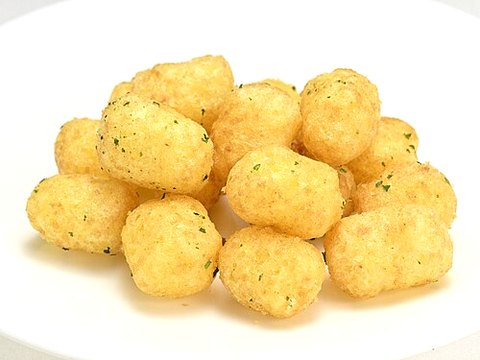
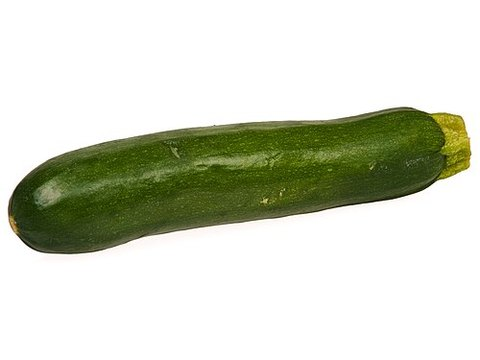
Демо-каталог 54 позиции в 12 группах, снимки на белом фоне
Каталог расширен так, чтобы пагинация была видна на обоих уровнях: 12 групп при
сетке 4x2 дают две страницы, и в двух группах по 10 товаров — тоже две.

Снимки приведены к белому фону: у кандидата замерялись углы кадра, и снимок
принимался только при равномерно светлом фоне; кадр не обрезается, а вписывается
в белое поле, иначе у студийного снимка срезается объект. Одной белизны оказалось
мало — поиск охотно отдавал студийное фото не того предмета, поэтому добавлена
проверка названия и защита от повторного использования одного снимка.

Часть карточек закрыта тематическими дублями: источник отдавал файлы порциями и
уходил в лимит, а для проверки вёрстки точного соответствия не требуется. Дубли
помечены в credits.md, заменить снимок — положить свой под тем же именем.

Карточка товара уплотнена: цена и код встали в одну строку, служебные строки
каталога стали ниже. До этого на экране прибора 1366x768 подпись занимала 86 px
из 160, а фотографии оставалось 69 — теперь 109 из 174.

Правка формулировки поиска в i18n.ts — от владельца репозитория, сохранена как есть.

Claude-Session: https://claude.ai/code/session_012KYWtzPLhGThTgMHXz4chb

diff --git a/frontend/src/kiosk/components/ProductGrid.vue b/frontend/src/kiosk/components/ProductGrid.vue
@@ -32,12 +32,16 @@ defineEmits<{ select: [product: Product] }>()
 
       <div class="body">
         <span class="name">{{ product.name }}</span>
-        <span class="price">
-          {{ formatMoney(product.price) }} {{ currency }}/{{
-            product.unit === 'piece' ? t('kiosk.perPiece') : t('kiosk.perKg')
-          }}
-        </span>
-        <span class="plu">{{ t('kiosk.code') }} {{ product.plu }}</span>
+        <!-- цена и код в одну строку: на экране прибора каждая лишняя строка
+             подписи отнимает высоту у фотографии -->
+        <div class="meta">
+          <span class="price">
+            {{ formatMoney(product.price) }} {{ currency }}/{{
+              product.unit === 'piece' ? t('kiosk.perPiece') : t('kiosk.perKg')
+            }}
+          </span>
+          <span class="plu">{{ t('kiosk.code') }} {{ product.plu }}</span>
+        </div>
       </div>
     </button>
 
@@ -105,26 +109,34 @@ defineEmits<{ select: [product: Product] }>()
 .body {
   display: flex;
   flex-direction: column;
-  gap: 2px;
-  padding: 10px 12px 12px;
+  padding: 8px 10px 10px;
 }
 
 .name {
-  font-size: 17px;
+  font-size: 16px;
   font-weight: 600;
-  line-height: 1.25;
+  line-height: 1.2;
+}
+
+.meta {
+  display: flex;
+  align-items: baseline;
+  justify-content: space-between;
+  gap: 8px;
+  margin-top: 4px;
 }
 
 .price {
-  margin-top: 4px;
-  font-size: 17px;
+  font-size: 16px;
   font-weight: 700;
   color: var(--s2l-accent);
+  white-space: nowrap;
 }
 
 .plu {
-  font-size: 13px;
+  font-size: 12px;
   color: var(--s2l-muted);
+  white-space: nowrap;
 }
 
 .empty {

diff --git a/frontend/src/kiosk/App.vue b/frontend/src/kiosk/App.vue
@@ -577,7 +577,7 @@ watch(locale, () => (document.title = t('title.kiosk')), { immediate: true })
 .catalog-title {
   margin: 0;
   padding: 0 4px;
-  font-size: 26px;
+  font-size: 22px;
   font-weight: 700;
   line-height: 1.2;
 }
@@ -594,8 +594,8 @@ watch(locale, () => (document.title = t('title.kiosk')), { immediate: true })
   align-items: center;
   gap: 14px;
   flex: 1;
-  height: 76px;
-  padding: 0 20px;
+  height: 64px;
+  padding: 0 18px;
   background: var(--s2l-panel);
   border: 3px solid transparent;
   border-radius: 16px;
@@ -641,9 +641,9 @@ watch(locale, () => (document.title = t('title.kiosk')), { immediate: true })
 
 .clear {
   flex: none;
-  width: 52px;
-  height: 52px;
-  font-size: 30px;
+  width: 46px;
+  height: 46px;
+  font-size: 28px;
   line-height: 1;
   color: var(--s2l-muted);
   background: var(--s2l-soft);
@@ -657,8 +657,8 @@ watch(locale, () => (document.title = t('title.kiosk')), { immediate: true })
 }
 
 .toggle {
-  width: 76px;
-  height: 76px;
+  width: 72px;
+  height: 64px;
   font-size: 19px;
   font-weight: 700;
   border: none;

diff --git a/frontend/src/kiosk/components/Pager.vue b/frontend/src/kiosk/components/Pager.vue
@@ -45,8 +45,8 @@ function go(delta: number) {
 .nav {
   /* Стрелки — основная навигация пальцем, поэтому крупные */
   width: 84px;
-  height: 56px;
-  font-size: 30px;
+  height: 46px;
+  font-size: 26px;
   line-height: 1;
   color: var(--s2l-ink);
   background: var(--s2l-panel);
@@ -72,8 +72,8 @@ function go(delta: number) {
 }
 
 .dot {
-  width: 34px;
-  height: 34px;
+  width: 26px;
+  height: 26px;
   padding: 0;
   border: none;
   border-radius: 50%;

diff --git a/frontend/src/shared/i18n.ts b/frontend/src/shared/i18n.ts
@@ -19,7 +19,7 @@ const messages = {
     kiosk: {
       connected: 'Ваги підключено',
       disconnected: 'Немає зв’язку',
-      searchPlaceholder: 'Знайдіть товар за назвою або кодом',
+      searchPlaceholder: 'Натисніть щоб знайти товар за Назвою або Кодом',
       code: 'Код',
       allCategories: 'Усі',
       searchResults: 'Результати пошуку',

diff --git a/frontend/src/kiosk/components/CategoryGrid.vue b/frontend/src/kiosk/components/CategoryGrid.vue
@@ -79,7 +79,7 @@ defineEmits<{ open: [category: Category] }>()
   display: flex;
   flex-direction: column;
   gap: 2px;
-  padding: 12px 14px 14px;
+  padding: 10px 12px 12px;
 }
 
 .name {

diff --git a/frontend/public/products/credits.md b/frontend/public/products/credits.md
@@ -1,24 +1,68 @@
-# Источники тестовых изображений
+# Источники изображений товаров
 
-Файлы взяты с Wikimedia Commons, уменьшены до 480×360 и кадрированы по центру.
-Это демонстрационные данные: для реальной эксплуатации фотографии товаров
-загружаются через админку.
+Демонстрационные данные. Снимки взяты с Wikimedia Commons, приведены к белому
+фону и вписаны в поле 480×360.
+
+Часть карточек закрыта тематическими дублями: для проверки вёрстки и пагинации
+точного соответствия не требуется, поэтому, например, сырам достался молочный
+снимок, а крупам — сыпучий. Такие файлы помечены в таблице.
+
+Для эксплуатации фотографии загружаются через админку: имя файла задаётся полем
+«Фото», достаточно положить свой снимок под тем же именем.
 
 | Файл | Источник | Автор | Лицензия |
 | --- | --- | --- | --- |
 | `tomato-cherry.jpg` | File:Cherry-Tomatoes-in-Pack.jpg | Evan-Amos | CC0 |
-| `cucumber.jpg` | File:Greek yoghurt cucumbers garlic.jpg | Nikodem Nijaki | CC BY-SA 3.0 |
-| `potato.jpg` | File:Root vegetables "Malanga" and potatoes at Cuban street market.jpg | sarang | Public domain |
-| `pepper-red.jpg` | File:Red capsicum and cross section.jpg | fir0002 flagstaffotos [at] gmail.com Canon 20D + Sigma 150mm | GFDL 1.2 |
-| `apple-golden.jpg` | File:Golden Delicious, SweeTango, Granny Smith, and Gala apples 3.JPG | Dllu | CC BY-SA 4.0 |
-| `banana.jpg` | File:Banana on whitebackground.jpg | Filo gèn' | CC BY-SA 4.0 |
-| `grapes.jpg` | File:Thompson seedless grapes.JPG | Glane23 | CC BY-SA 3.0 |
+| `cucumber.jpg` | File:Cucumber BNC.jpg | Prathyush Thomas | GFDL 1.2 |
+| `potato.jpg` | File:Russet potato cultivar with sprouts.jpg | ZooFari | Public domain |
+| `pepper-red.jpg` | File:Red bell pepper.jpg | AntanO | CC BY-SA 4.0 |
+| `carrot.jpg` | File:Vegetable-Carrot-Bundle-wStalks.jpg | Evan-Amos | Public domain |
+| `onion.jpg` | File:Red Onion on White.JPG | Colin | CC BY-SA 3.0 |
+| `cabbage.jpg` (дубль `zucchini.jpg`) | File:Zucchini-Whole.jpg | Evan-Amos | Public domain |
+| `beetroot.jpg` | File:Beetroot peeled.jpg | Tiia Monto | CC BY-SA 4.0 |
+| `zucchini.jpg` | File:Zucchini-Whole.jpg | Evan-Amos | Public domain |
+| `garlic.jpg` | File:Opened garlic bulb with garlic clove.jpg | Dubravko Sorić SoraZG on Flickr | CC BY 2.0 |
+| `apple-golden.jpg` (дубль `pear.jpg`) | File:Pear DS.jpg | Augustus Binu : flickr | CC BY-SA 3.0 |
+| `banana.jpg` | File:Banana (white background) sms.jpg | Original : Justus Blümer from Deutschland Derivati | CC BY-SA 4.0 |
+| `grapes.jpg` | File:Green grape fruit.jpg | Paolo Neo | Public domain |
 | `mandarin.jpg` | File:Mandarin Oranges (Citrus Reticulata).jpg | Joe Ravi | CC BY-SA 3.0 |
-| `chicken-fillet.jpg` | File:Raw chicken slices.jpg | kakyusei | CC0 |
-| `minced-pork.jpg` | File:Hackfleisch-1.jpg | No machine-readable author provided. Rainer Zenz assumed (ba | CC BY-SA 3.0 |
-| `cheese-gouda.jpg` | File:Chesses gouda affinage.JPG | No machine-readable author provided. Alpha.prim~commonswiki  | Public domain |
-| `cheese-brynza.jpg` | File:Feta Greece 2.jpg | — | CC BY-SA 3.0 |
-| `walnut.jpg` | File:White walnut kernels.jpg | Fumikas Sagisavas | CC0 |
+| `pear.jpg` | File:Pear DS.jpg | Augustus Binu : flickr | CC BY-SA 3.0 |
+| `orange.jpg` | File:Mandarin Oranges (Citrus Reticulata).jpg | Joe Ravi | CC BY-SA 3.0 |
+| `lemon.jpg` (дубль `orange.jpg`) | File:Mandarin Oranges (Citrus Reticulata).jpg | Joe Ravi | CC BY-SA 3.0 |
+| `kiwi.jpg` | File:Kiwi aka.jpg | André Karwath aka Aka | CC BY-SA 2.5 |
+| `strawberry.jpg` | File:Strawberry on white background.jpg | Joselodos | CC0 |
+| `pomegranate.jpg` | File:Punica granatum 3.jpg | — | CC BY-SA 3.0 |
+| `chicken-fillet.jpg` (дубль `ham.jpg`) | File:Ham (4).jpg | Renee Comet (Photographer) | Public domain |
+| `minced-pork.jpg` | File:Meat-grinder-30701283801918LoLK.jpg | Sam Bourland | CC0 |
+| `beef-steak.jpg` (дубль `ham.jpg`) | File:Ham (4).jpg | Renee Comet (Photographer) | Public domain |
+| `chicken-wings.jpg` (дубль `salami.jpg`) | File:Salami aka.jpg | André Karwath aka Aka | CC BY-SA 2.5 |
+| `cheese-gouda.jpg` (дубль `yogurt.jpg`) | File:Frozen yogurt (1).jpg | Renee Comet (Photographer) | Public domain |
+| `cheese-brynza.jpg` (дубль `yogurt.jpg`) | File:Frozen yogurt (1).jpg | Renee Comet (Photographer) | Public domain |
+| `cheese-parmesan.jpg` (дубль `honey.jpg`) | File:Honey-Fruit-Mead-Brewing.jpg | Evan-Amos | CC0 |
+| `cheese-mozzarella.jpg` (дубль `yogurt.jpg`) | File:Frozen yogurt (1).jpg | Renee Comet (Photographer) | Public domain |
+| `walnut.jpg` (дубль `almond.jpg`) | File:Pepero Almond Sticks (cropped).jpg | Evan-Amos | CC0 |
 | `raisins.jpg` | File:Raisins 01.jpg | Paweł Kuźniar ( Jojo_1 , Jojo ) | CC BY-SA 3.0 |
-| `bread-loaf.jpg` | File:Fresh Scali bread loaf from Winter Hill Bakery.jpg | Mmangan333 | CC BY-SA 4.0 |
-| `baguette.jpg` | File:Ham baguette at Black Horse Inn, Nuthurst, West Sussex England.jpg | Acabashi | CC BY-SA 4.0 |
+| `almond.jpg` | File:Pepero Almond Sticks (cropped).jpg | Evan-Amos | CC0 |
+| `hazelnut.jpg` (дубль `almond.jpg`) | File:Pepero Almond Sticks (cropped).jpg | Evan-Amos | CC0 |
+| `bread-loaf.jpg` | File:Breads of Russia.jpg | Dmitry Makeev | CC BY-SA 4.0 |
+| `baguette.jpg` | File:Baguette.jpg | Lionel Allorge | CC BY-SA 3.0 |
+| `croissant.jpg` | File:Croissant-Petr Kratochvil.jpg | Petr Kratochvil | CC0 |
+| `salmon.jpg` (дубль `minced-pork.jpg`) | File:Meat-grinder-30701283801918LoLK.jpg | Sam Bourland | CC0 |
+| `herring.jpg` (дубль `minced-pork.jpg`) | File:Meat-grinder-30701283801918LoLK.jpg | Sam Bourland | CC0 |
+| `shrimp.jpg` (дубль `minced-pork.jpg`) | File:Meat-grinder-30701283801918LoLK.jpg | Sam Bourland | CC0 |
+| `butter.jpg` (дубль `yogurt.jpg`) | File:Frozen yogurt (1).jpg | Renee Comet (Photographer) | Public domain |
+| `sour-cream.jpg` (дубль `yogurt.jpg`) | File:Frozen yogurt (1).jpg | Renee Comet (Photographer) | Public domain |
+| `yogurt.jpg` | File:Frozen yogurt (1).jpg | Renee Comet (Photographer) | Public domain |
+| `sausage.jpg` (дубль `salami.jpg`) | File:Salami aka.jpg | André Karwath aka Aka | CC BY-SA 2.5 |
+| `salami.jpg` | File:Salami aka.jpg | André Karwath aka Aka | CC BY-SA 2.5 |
+| `ham.jpg` | File:Ham (4).jpg | Renee Comet (Photographer) | Public domain |
+| `rice.jpg` (дубль `raisins.jpg`) | File:Raisins 01.jpg | Paweł Kuźniar ( Jojo_1 , Jojo ) | CC BY-SA 3.0 |
+| `buckwheat.jpg` (дубль `raisins.jpg`) | File:Raisins 01.jpg | Paweł Kuźniar ( Jojo_1 , Jojo ) | CC BY-SA 3.0 |
+| `oat-flakes.jpg` (дубль `cookies.jpg`) | File:Oatmeal-Cookie.jpg | Evan-Amos | CC BY-SA 3.0 |
+| `pasta.jpg` (дубль `bread-loaf.jpg`) | File:Breads of Russia.jpg | Dmitry Makeev | CC BY-SA 4.0 |
+| `chocolate.jpg` | File:Dunkin-Donuts-Chocolate-Glazed.jpg | Evan-Amos | Public domain |
+| `cookies.jpg` | File:Oatmeal-Cookie.jpg | Evan-Amos | CC BY-SA 3.0 |
+| `honey.jpg` | File:Honey-Fruit-Mead-Brewing.jpg | Evan-Amos | CC0 |
+| `black-pepper.jpg` (дубль `cinnamon.jpg`) | File:Cinnamomum verum spices.jpg | Simon A. Eugster | CC BY-SA 3.0 |
+| `paprika.jpg` (дубль `cinnamon.jpg`) | File:Cinnamomum verum spices.jpg | Simon A. Eugster | CC BY-SA 3.0 |
+| `cinnamon.jpg` | File:Cinnamomum verum spices.jpg | Simon A. Eugster | CC BY-SA 3.0 |

diff --git a/README.md b/README.md
@@ -44,9 +44,15 @@ npm run dev
 сразу на киоск, админку и печать.
 
 Каталог в киоске двухуровневый: сначала карточки групп, внутри — карточки товаров
-с фотографиями. Демонстрационные снимки лежат в `frontend/public/products/`
-(источники и лицензии — в `credits.md` рядом с ними); в базе хранится только имя файла,
-и его можно поменять в админке.
+с фотографиями. Демо-каталог — 54 позиции в 12 группах: и групп, и товаров в двух
+группах заведомо больше, чем помещается на страницу сетки, чтобы пагинация была
+видна на обоих уровнях.
+
+Снимки лежат в `frontend/public/products/`, источники и лицензии — в `credits.md`
+рядом с ними. Часть карточек закрыта тематическими дублями: для проверки вёрстки
+точного соответствия не требуется. В базе хранится только имя файла, поэтому
+заменить снимок — значит положить свой под тем же именем (или указать другое имя
+в поле «Фото» в админке).
 
 ### Как «положить товар на весы»
 
